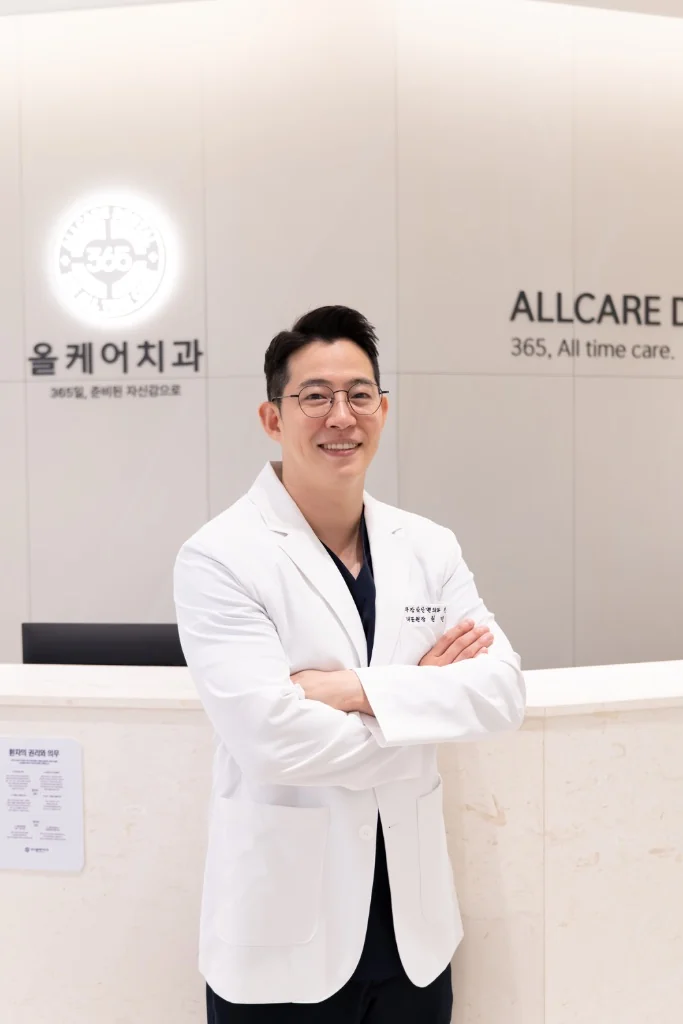
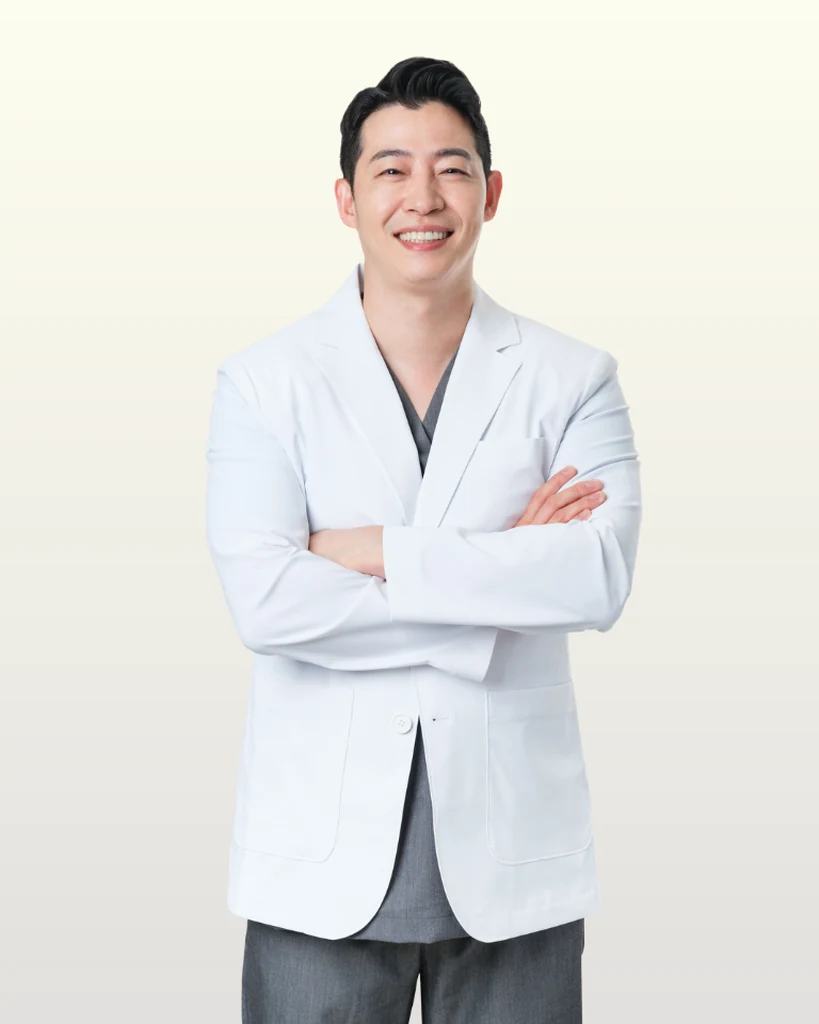
feat(hero): 히어로 원장님 사진 교체 — 신규 흰가운/팔짱 누끼 → 아이보리 그라데이션 합성 4:5 크롭(819×1024), 캐시 v=20260621u

diff --git a/src/pages/home.ts b/src/pages/home.ts
@@ -105,7 +105,7 @@ export function HomePage(popup?: { id: string; title: string; body: string; imag
           <svg class="hh-frame-draw" viewBox="0 0 100 100" preserveAspectRatio="none" fill="none" aria-hidden="true">
             <rect class="hfd-rect" pathLength="1" x="0" y="0" width="100" height="100" vector-effect="non-scaling-stroke"/>
           </svg>
-          <img class="hh-portrait" src="/static/img/hero-doctor.webp" alt="올케어치과 권민수 대표원장 — 약수역 임플란트·교정·심미보철 더블보드 전문의" width="683" height="1024" fetchpriority="high" />
+          <img class="hh-portrait" src="/static/img/hero-doctor.webp" alt="올케어치과 권민수 대표원장 — 약수역 임플란트·교정·심미보철 더블보드 전문의" width="819" height="1024" fetchpriority="high" />
         </div>
         <figcaption class="hh-caption"><span class="hh-cap-eng disp">${CLINIC.doctorLead?.name || '권민수'} 대표원장</span> 구강악안면외과·통합치의학과 더블보드 전문의</figcaption>
       </figure>

diff --git a/src/components/layout.ts b/src/components/layout.ts
@@ -290,7 +290,7 @@ export function Footer() {
   </div>
 
   <div class="toast" id="toast"></div>
-  <script src="/static/app.js?v=20260621t"></script>
+  <script src="/static/app.js?v=20260621u"></script>
   `
 }
 
@@ -359,7 +359,7 @@ export function headTags(meta: Meta) {
     <link rel="preconnect" href="https://fonts.gstatic.com" crossorigin />
     ${meta.preloadImage ? raw(`<link rel="preload" as="image" href="${meta.preloadImage}" fetchpriority="high" />`) : ''}
     <!-- 본문 CSS는 렌더 차단 없이 우선 적용 -->
-    <link rel="stylesheet" href="/static/style.css?v=20260621t" />
+    <link rel="stylesheet" href="/static/style.css?v=20260621u" />
     <!-- 한글 동적 서브셋(Pretendard): 실제 사용 글자만 로드 → 4MB→수십KB -->
     <link rel="stylesheet" as="style" crossorigin href="https://cdn.jsdelivr.net/gh/orioncactus/pretendard@v1.3.9/dist/web/variable/pretendardvariable-dynamic-subset.min.css" />
     <!-- 디스플레이/명조/모노: display=swap 으로 FOIT 방지 -->
